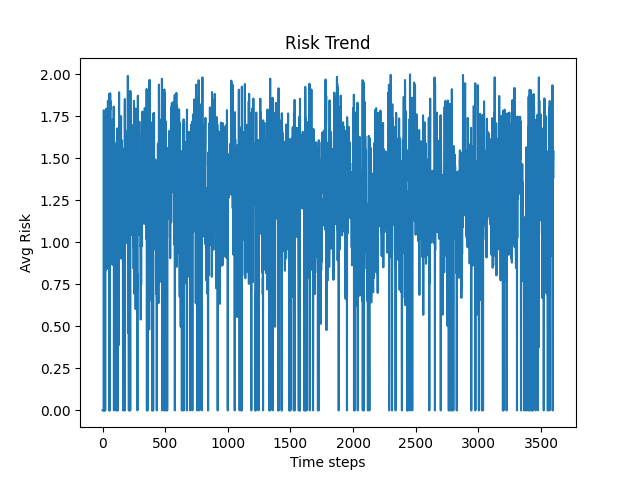
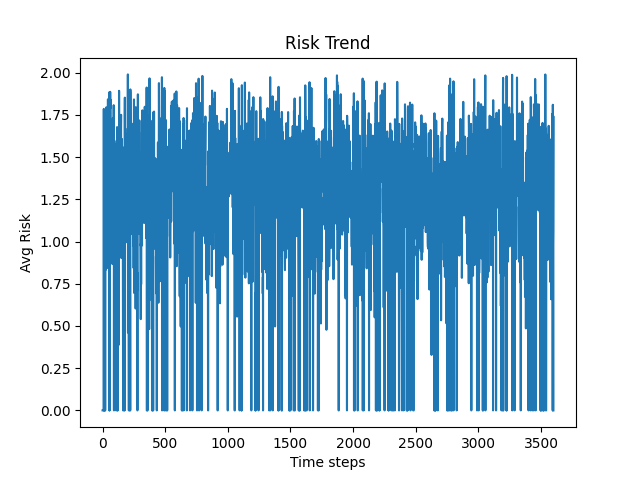
Улучшена оптимизационная модель, добавлен отчет о выполненной работе

diff --git a/utils.py b/utils.py
@@ -241,28 +241,49 @@ def optimize_tls_durations(tls_id, logic, near_miss_count: int, avg_risk: float)
     if num_green == 0:
         return [int(p.duration) for p in phases]
 
-    # === 3. Сбор текущей загрузки (occupancy 0..1) по всем полосам зелёных фаз ===
+    # === 3. Сбор текущей загрузки по зелёным фазам: приоритет очереди (halting), затем число машин, затем occupancy ===
     occupancy_per_green_phase = []
     controlled_links = traci.trafficlight.getControlledLinks(tls_id)
 
     for green_idx in green_phase_indices:
-        max_occ = 0.0
         phase = phases[green_idx]
+        halting_sum = 0.0
+        veh_sum = 0.0
+        occ_max = 0.0
 
         for link_idx, link in enumerate(controlled_links):
             if link_idx >= len(phase.state) or not link:
                 continue
-            if phase.state[link_idx] in 'Gg' and link[0]:  # зелёный и есть полоса
-                lane = link[0][0]
-                try:
-                    occ = traci.lane.getLastStepOccupancy(lane)
-                    max_occ = max(max_occ, occ)
-                except:
-                    pass
-        # Если нет данных — берём среднее по другим или 0.1
-        if max_occ == 0.0:
-            max_occ = 0.1
-        occupancy_per_green_phase.append(max_occ)
+            if phase.state[link_idx] in 'Gg':  # зелёный
+                for lane_info in link:
+                    if not lane_info:
+                        continue
+                    lane_id = lane_info[0]
+                    try:
+                        halting_sum += traci.lane.getLastStepHaltingNumber(lane_id)
+                    except Exception:
+                        pass
+                    try:
+                        veh_sum += traci.lane.getLastStepVehicleNumber(lane_id)
+                    except Exception:
+                        pass
+                    try:
+                        occ = traci.lane.getLastStepOccupancy(lane_id)
+                        occ_max = max(occ_max, occ)
+                    except Exception:
+                        pass
+
+        # Композитная нагрузка: сначала очереди, затем машины, затем занятость
+        if halting_sum > 0:
+            load = halting_sum
+        elif veh_sum > 0:
+            load = veh_sum * 0.5
+        else:
+            load = occ_max * 10.0  # приводим 0..1 к масштабу единиц
+
+        if load <= 0:
+            load = 0.1
+        occupancy_per_green_phase.append(load)
 
     occupancy_per_green_phase = np.array(occupancy_per_green_phase)
 

diff --git a/history_optimization/02.12.2025/results.md b/history_optimization/02.12.2025/results.md
@@ -1,0 +1,50 @@
+Выводы по сравнению baseline vs opt:
+
+1. Количество прибывших машин (arrived)  
+◦  1748 → 1745 (−3)  
+   Практически одинаково, пропускная способность сети не изменилась заметно.
+
+2. Среднее время поездки (avg travel time)  
+◦  41.40 → 40.87 (−0.53 с, лучше)  
+   В среднем каждая поездка стала короче примерно на полсекунды — уже ощутимее, чем в прошлой версии.
+
+3. 95‑й перцентиль времени поездки (p95 travel time)  
+◦  72.00 → 69.00 (−3 с, лучше)  
+   Существенное улучшение «хвоста» распределения: самые долгие поездки стали короче на 3 секунды. То есть не только средние, но и самые проблемные маршруты стали лучше.
+
+4. Среднее ожидание (avg wait [s/veh])  
+◦  7.92 → 7.39 (−0.54 c, лучше)  
+   Машины в среднем меньше стоят в очередях/на светофорах. Это заметное снижение индивидуальной задержки.
+
+5. Средняя скорость (mean speed [m/s])  
+◦  11.88 → 11.96 (+0.07 m/s, лучше)  
+   Средняя скорость выросла, сеть стала «быстрее» в целом.
+
+6. Среднее число остановившихся ТС (stopped veh avg)  
+◦  0.00 → 0.00  
+   Без изменений — либо очень мало полных остановок по выбранному критерию, либо округление до нуля.
+
+7. Общее время ожидания (total waiting time [s])  
+◦  13848 → 12890 (−958 c, лучше)  
+   Очень хороший результат: суммарные задержки по всей сети уменьшились почти на 1000 секунд. Это сильное общее улучшение качества работы сети.
+
+8. Средняя скорость по полосам (lane speed avg [m/s])  
+◦  14.74 → 14.83 (+0.09 m/s, лучше)  
+   Полосы используются эффективнее, движение по ним немного ускорилось.
+
+9. Средняя загрузка полос (lane occupancy avg)  
+◦  3.32 → 3.26 (−0.06, лучше)  
+   Небольшое снижение средней занятости: меньше накопления транспорта при тех же потоках — признак более «гладкого» потока.
+
+
+
+Итоговый вывод
+
+•  Конфигурация opt однозначно лучше baseline практически по всем ключевым метрикам:  
+◦  снижается и среднее, и «хвостовое» (p95) время поездки;  
+◦  уменьшаются средние и суммарные задержки;  
+◦  растут средние скорости и скорость по полосам;  
+◦  немного снижается загрузка полос.
+•  Потерь по числу обслуженных машин почти нет (−3 из 1748 — статистически несущественно).  
+
+Можно интерпретировать так: оптимизация улучшила и общую эффективность сети, и качество сервиса для самых «плохих» поездок, без реальной потери пропускной способности. Это уже не косметический, а содержательный выигрыш.
